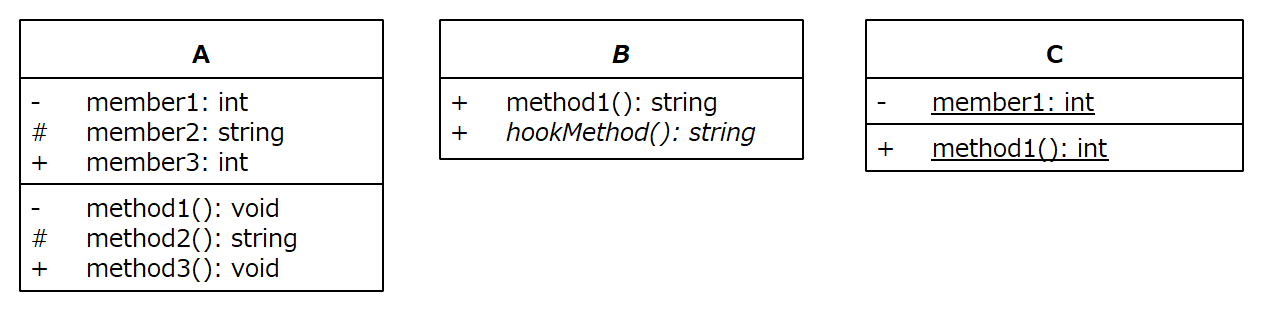
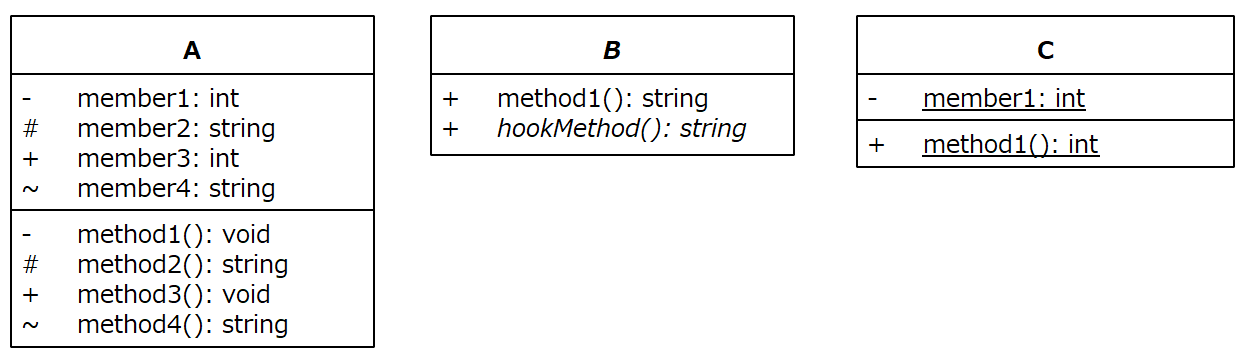
可視性に関する記述を全体的に見直し

Changed region(s): [[0.3435, 0.0288, 0.9992, 0.5769], [0.0, 0.0288, 0.3122, 0.9808], [0.3435, 0.4904, 0.6557, 0.5192]]

diff --git a/src/posts/blogs/2024/0701_uml-x-mapping-go1.md b/src/posts/blogs/2024/0701_uml-x-mapping-go1.md
@@ -8,16 +8,24 @@ image: true
 
 # はじめに
 
-メーカー向けにUML表記法やUMLモデリングのセミナー講師をしていると、自分の言語ではどのように実装すればよいのか？ というご質問を受けることがあります。また、講師側としても、受講生が使っているプログラミング言語でUMLを説明すると、すんなりと分かって頂ける経験が幾度となくあります。多くのプログラマがUMLモデリングに興味を持って頂けているようですが、UMLのモデルをどのようにソースコードにするかについては意外と知られておらず、UMLモデリングが広まらない原因の一つではないかと考えています。
+UML表記法やUMLモデリングのセミナー講師をしていると、「自分の言語ではどのように実装すればよいのか」というご質問を受けることがあります。また、講師側としても、受講生が使っているプログラミング言語でUMLを説明すると、すんなりと分かって頂ける経験が幾度となくあります。多くのプログラマがUMLモデリングに興味を持って頂けているようですが、UMLのモデルをどのようにソースコードにするかについては意外と知られていません。これが、UMLモデリングが広まらない原因の1つではないかと考えています。
 
 UMLからソースコードへの変換を「マッピング」といい、プログラミング言語名を付けて、「UML/C++マッピング」のように呼びます。このシリーズは、さまざまなプログラミング言語への「UML/Xマッピング」を紹介して、馴染みのあるプログラミング言語からUMLを逆に理解して貰えるように企画したものです。ただし、マッピングは様々なマッピング方法を考える事が可能です。ご紹介するものは、その具体例の1つだとお考え下さい。
 
 # この記事を理解するために必要な基本的な知識
-## UMLの知識
+
 この記事は、最小限のUML表記法が分かることを前提としています。例えば、クラス図では属性/操作や関連端名/多重度および可視性の読み方、汎化関係/実現関係の意味、シーケンス図のメッセージとクラスの操作の対応関係、を理解していることが前提です。
-## プログラミング言語の知識
+
+# この記事のマッピングの方針
+
+Go言語は、UMLのクラス概念や一部の可視性（private/protected）をサポートしていません。そのため、structと関数の組み合わせでクラスを表現します。また、可視性はGo言語がサポートしている範囲のみを対象とします。提示するUMLのダイアグラムはプログラミング言語のサポートに関わらず提示し、サンプルコード内にサポート外である旨を記載します。
+
+ :::column:豆知識!
+ 
 Go言語で複数のソースファイルを含むプログラムを実行する場合、go run コマンドを使用して、必要なすべてのファイルを指定する必要があります。
 例：go run main.go A.go B.go
+
+ :::
 
 # クラスの基本要素(クラス,属性,操作)のマッピング
 
@@ -29,32 +37,37 @@ package main
 
 // A structは、さまざまなアクセスレベルのメンバーを持つクラスの例です。
 type A struct {
-    member1 int    // private変数。外部からアクセス不可能。go言語では、privateは頭文字を小文字にします。
-    Member2 string // protected変数。go言語にはprotectedがありません。public変数を定義し、プログラマが意図的に派生クラス内でのみ使用します。
-    Member3 int    // public変数。どこからでもアクセス可能。go言語では、publicは頭文字を大文字にします。
+    // member1 int ：Go言語はprivate(-)はサポート外
+    // member2 string ： Go言語はprotected(#)はサポート外
+    Member3 int    // public(+）は先頭が大文字
+    member4 string // package(~)は、先頭が小文字
 }
 
-// privateメソッド。structの外からはアクセス不可能。go言語では、privateは頭文字を小文字にします。
-func (a *A) method1() {}
+// privateメソッド ： Go言語はprivate(-)はサポート外
+// func (a *A) method1() {}
 
-// protectedメソッド。go言語にはprotectedがありません。publicメソッドを定義し、プログラマが意図的に派生クラス内でのみ使用します。
-func (a *A) Method2() string { return "" }
+// protectedメソッド ： Go言語はprotected(#)はサポート外
+// func (a *A) method2() string { return "" }
 
-// publicメソッド。どこからでもアクセス可能。go言語では、publicは頭文字を大文字にします。
+// public(+）は先頭が大文字
 func (a *A) Method3() {}
+
+// package(~)は、先頭が小文字
+func (a *A) method4() string { return "" }
+
 ```
 
 B.go
 ```go
 package main
 
-// B structは、一般的なメソッドを提供するシンプルなクラスの例です。
+// B structは、クラスの例です。
 type B struct {}
 
 // publicメソッド。どこからでもアクセス可能。
 func (b *B) Method1() string { return "" }
 
-// 別のpublicメソッド。
+// publicメソッド。
 func (b *B) HookMethod() string { return "" }
 ```
 
@@ -62,13 +75,13 @@ C.go
 ```go
 package main
 
-// C structは、private変数を持つ別のクラスの例です。
+// C structは、別のクラスの例です。
 type C struct {
-    member1 int // private変数。外部からはアクセス不可能。go言語はstaticが存在しないため、非staticで実装します。
+   // member1 int // go言語はstatic変数はサポート外です
 }
 
-// publicメソッド。どこからでもアクセス可能。go言語はstaticが存在しないため、非staticで実装します。
-func (c *C) Method1() int { return 0 }
+// publicメソッド。go言語はstaticメソッドはサポート外です
+// func (c *C) Method1() int { return 0 }
 ```
 
 main.go
@@ -79,14 +92,14 @@ import "fmt"
 
 func main() {
     // A, B, Cの各インスタンスを作成し、それぞれのメソッドや変数を利用する例。
-    a := A{member1: 10, Member2: "Hello", Member3: 20}
+    a := A{Member3: 20, member4: "World"}
     b := B{}
-    c := C{member1: 30}
+    c := C{}
 
-    // Aのpublic変数、BとCのメソッドの結果を出力。
+    // Aのpublic変数、Bのメソッドの結果を出力。
     fmt.Println(a.Member3)
+    fmt.Println(a.member4)
     fmt.Println(b.Method1())
-    fmt.Println(c.Method1())
 }
 ```
 
@@ -521,7 +534,7 @@ func main() {
 
 ![汎化関係_継承で実装](/img/blogs/2024/uml-x-mapping/03_01_general_inheri.png)
 
-Go言語は、言語的に継承の仕組みがないため、基底クラスを埋め込んだ実装を紹介します
+Go言語は、言語的に継承の仕組みがないため、基底クラスを埋め込んだ実装を紹介します。
 
 A.go
 ```go
@@ -709,3 +722,5 @@ func main() {
 # おわりに
 
 本記事は、今後も更新していく可能性があります。ご利用の際は、最新の情報をご覧ください。
+
+ 
